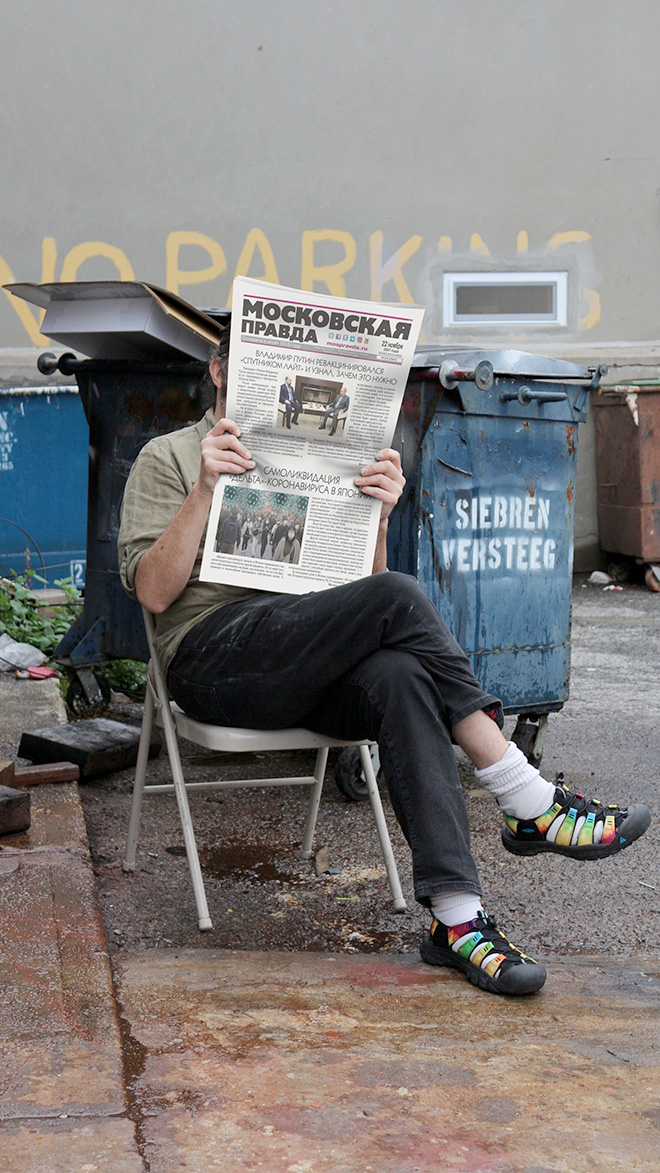
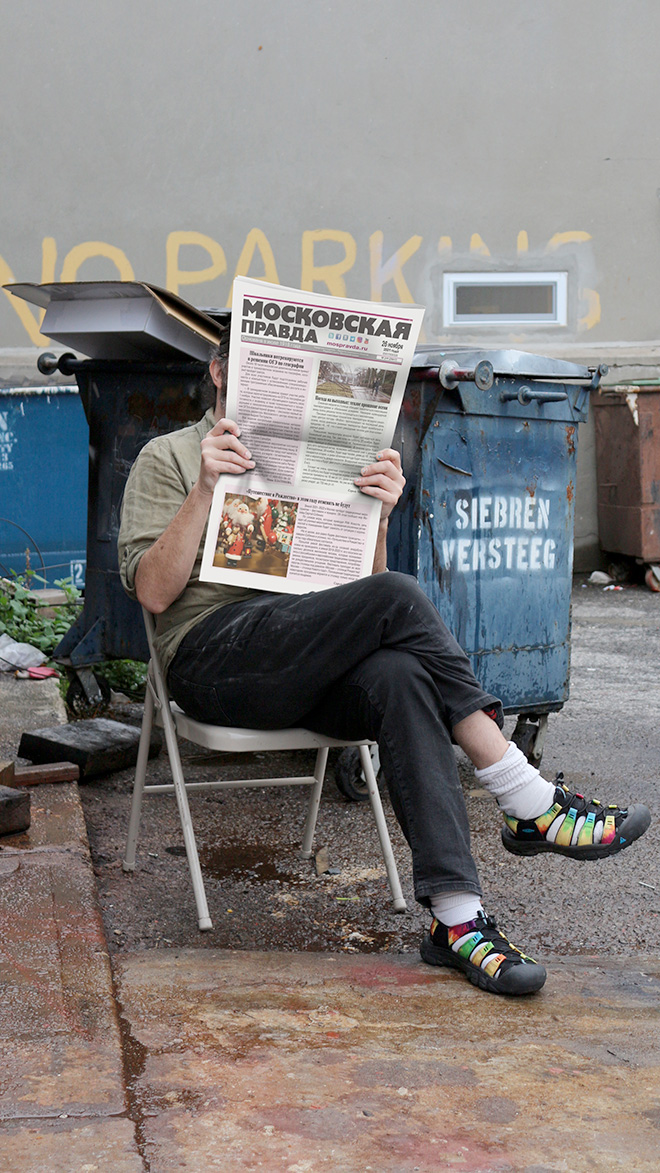
work 32 upd

Changed region(s): [[0.303, 0.2762, 0.6061, 0.5217]]

diff --git a/index.html b/index.html
@@ -155,7 +155,7 @@
 						<div class="author">Кевин Маккой</div>
 					</li>
 					<li>
-						<a href="#modal-work32" class="js-modal-link"><img src="/assets/images/works/work32.jpg?22112021" alt="Утренняя газета" title="Утренняя газета"></a>
+						<a href="#modal-work32" class="js-modal-link"><img src="/assets/images/works/work32.jpg?27112021" alt="Утренняя газета" title="Утренняя газета"></a>
 						<h3><a href="#modal-work32" class="js-modal-link">Ежедневная правда</a></h3>
 						<div class="author">Сибрен Верстиг</div>
 					</li>
@@ -1515,7 +1515,7 @@
 				<div class="title">Ежедневная правда</div>
 				<div class="authors">Сибрен Верстиг</div>
 				<div class="media">
-					<a href="/assets/images/works/work32_full.jpg?22112021" class="js-lightbox picture"><img src="/assets/images/works/work32.jpg?22112021" alt="Ежедневная правда"></a>
+					<a href="/assets/images/works/work32_full.jpg?27112021" class="js-lightbox picture"><img src="/assets/images/works/work32.jpg?27112021" alt="Ежедневная правда"></a>
 				</div>
 				<div class="credits">
 					<p><span class="line"><span class="label">сайт автора:</span><br><a href="http://www.siebrenversteeg.com/" target="_blank">siebrenversteeg.com</a></span><br><br><!-- <span class="line"><span class="label">работа размещена:</span><br><a href="https://www.artblocks.io/token/120000131" target="_blank">artblocks.io/token/120000131</a></span> --></p>

diff --git a/en/index.html b/en/index.html
@@ -155,7 +155,7 @@
 						<div class="author">Kevin McCoy</div>
 					</li>
 					<li>
-						<a href="#modal-work32" class="js-modal-link"><img src="/assets/images/works/work32.jpg?22112021" alt="Today’s Paper" title="Today’s Paper"></a>
+						<a href="#modal-work32" class="js-modal-link"><img src="/assets/images/works/work32.jpg?27112021" alt="Today’s Paper" title="Today’s Paper"></a>
 						<h3><a href="#modal-work32" class="js-modal-link">Daily Truth</a></h3>
 						<div class="author">Siebren Versteeg</div>
 					</li>
@@ -1511,7 +1511,7 @@
 				<div class="title">Daily Truth</div>
 				<div class="authors">Siebren Versteeg</div>
 				<div class="media">
-					<a href="/assets/images/works/work32_full.jpg?22112021" class="js-lightbox picture"><img src="/assets/images/works/work32.jpg?22112021" alt="Daily Truth"></a>
+					<a href="/assets/images/works/work32_full.jpg?27112021" class="js-lightbox picture"><img src="/assets/images/works/work32.jpg?27112021" alt="Daily Truth"></a>
 				</div>
 				<div class="credits">
 					<p><span class="line"><span class="label">author site:</span><br><a href="http://www.siebrenversteeg.com/" target="_blank">siebrenversteeg.com</a></span><br><br><!-- <span class="line"><span class="label">work placed:</span><br><a href="https://www.artblocks.io/token/120000131" target="_blank">artblocks.io/token/120000131</a></span> --></p>
